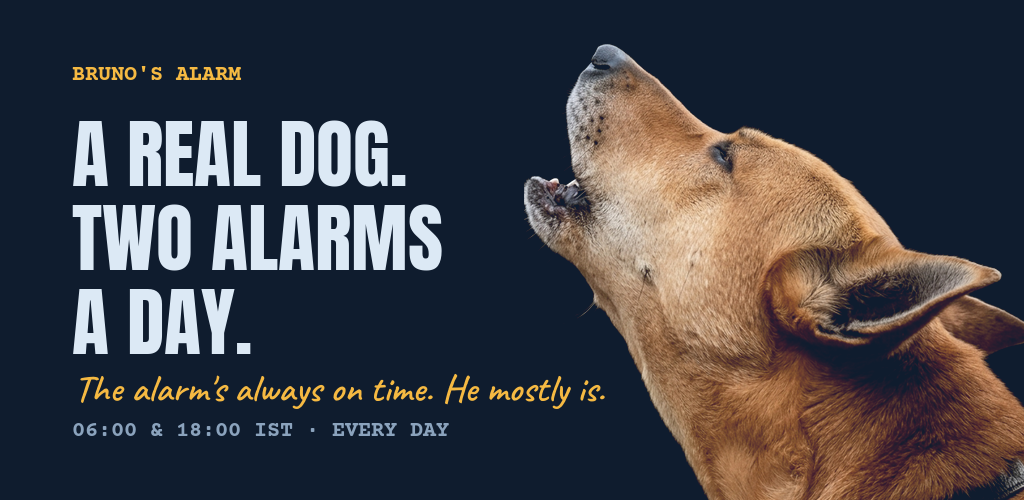
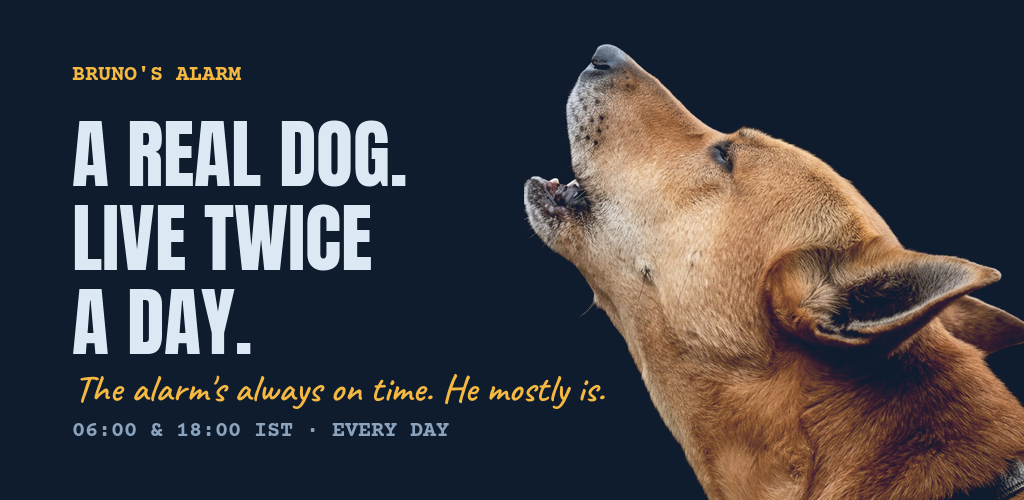
Tagline: "A real dog. Live twice a day." instead of "Two alarms a day"
"Two alarms a day" read as if the app only sets two alarms. Changed on the app's
Home, the website hero and link preview, and the Play feature graphic; guide
notes the tagline and why.

Changed region(s): [[0.0625, 0.39, 0.4375, 0.54]]

diff --git a/app/layout.tsx b/app/layout.tsx
@@ -23,7 +23,7 @@ export const metadata: Metadata = {
     "A real dog howls at a church bell at 6AM and 6PM IST. This Android app wakes you up with it — live when he's on, recorded when he isn't.",
   openGraph: {
     title: "Bruno's Alarm",
-    description: "A real dog. Two alarms a day. Wake up to Bruno's howl, live.",
+    description: "A real dog, live twice a day. Wake up to Bruno's howl.",
     images: [{ url: "/bruno.jpg", width: 800, height: 800, alt: "Bruno mid-howl" }],
     type: "website",
   },

diff --git a/mobile/components/HomeScreen.tsx b/mobile/components/HomeScreen.tsx
@@ -166,7 +166,7 @@ export default function HomeScreen({ navigation }: Props) {
           <View style={styles.header}>
             <View style={styles.headerTitleWrap}>
               <Text style={styles.title}>Bruno's Alarm</Text>
-              <Text style={styles.subtitle}>A real dog. Two alarms a day.</Text>
+              <Text style={styles.subtitle}>A real dog. Live twice a day.</Text>
             </View>
             <Touchable
               style={styles.settingsButton}

diff --git a/app/page.tsx b/app/page.tsx
@@ -87,7 +87,7 @@ export default function Home() {
               <h1 className="display">
                 A real dog.
                 <br />
-                Two alarms
+                Live twice
                 <br />
                 a day.
               </h1>

diff --git a/PROJECT_GUIDE.md b/PROJECT_GUIDE.md
@@ -408,5 +408,8 @@ logs, Diagnostics, Device IDs; nothing shared; encrypted in transit; deletion vi
 - Copy in the app is short and plain; humour is about Bruno, never about whether the alarm
   works. Use one name per feature ("Bruno's daily alarm", "Ring when Bruno goes live") and
   local times, never a bare "6AM & 6PM".
+- Tagline everywhere (app Home, website hero, Play feature graphic): **"A real dog. Live twice
+  a day."** Don't use "Two alarms a day" — it reads as if the app only sets two alarms, when
+  people can set as many of their own as they like.
 - Commit with clear messages once work is confirmed; the owner often asks to build an AAB or
   install on the USB-connected phone after changes.
